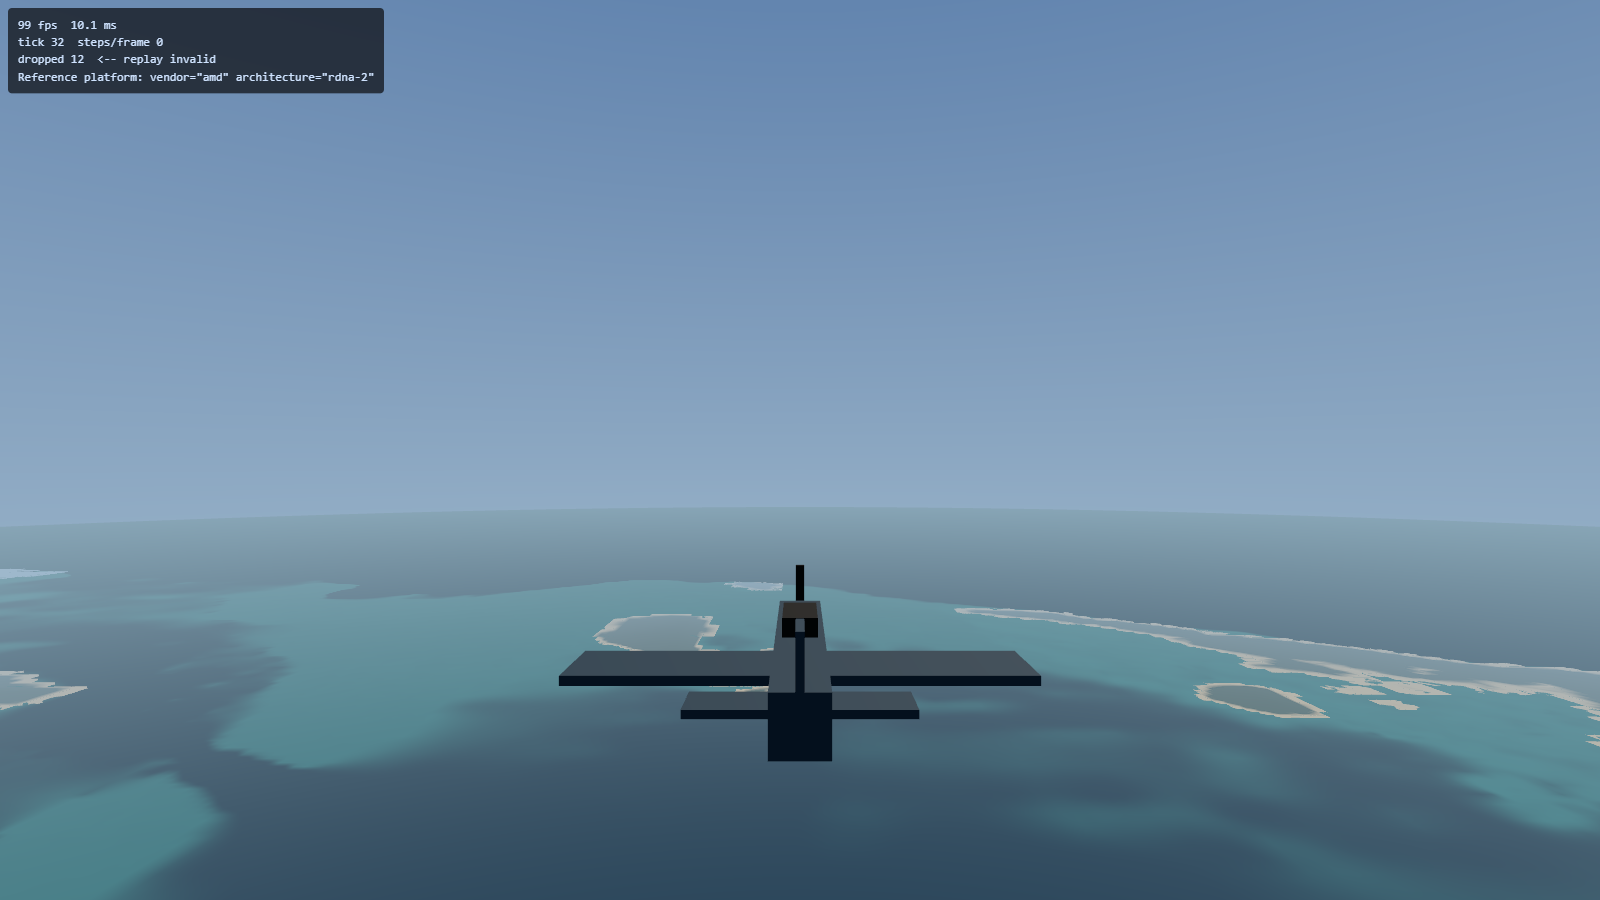
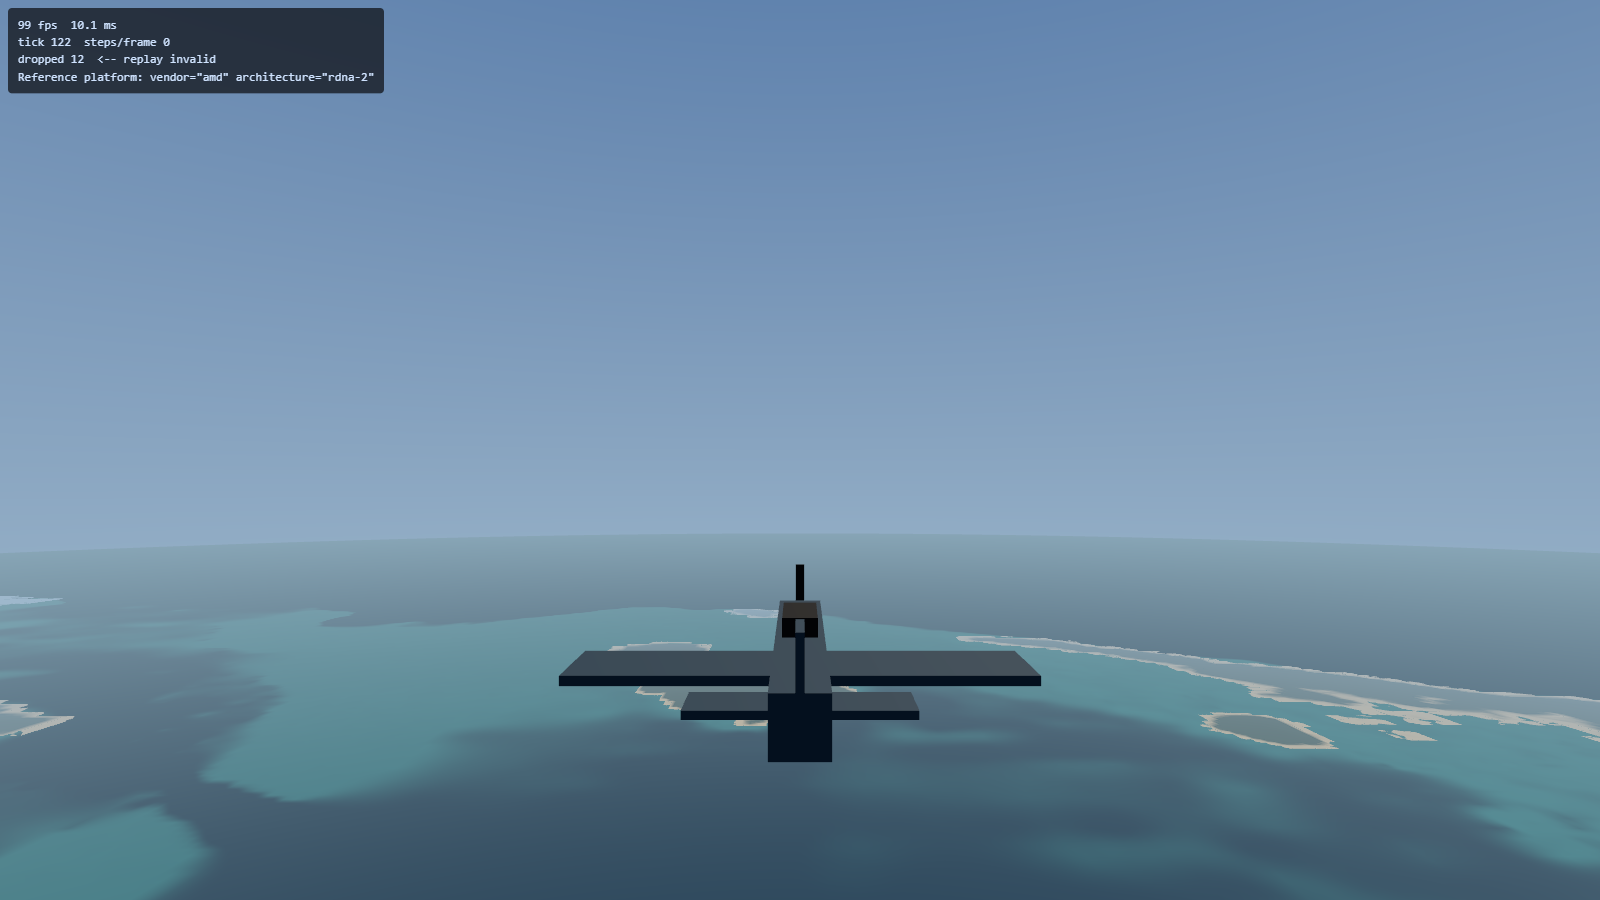
docs(ocean): record Plan 5 results, GPU evidence and visual handoff
Document actual bathymetry encoding, native WGSL path, wave bands, measured tiers, CPU/GPU tolerance and known visual limits. Refresh final wave captures and use the Tacloban coast because the plan location hides the sea at 600 m. Verification: 639 tests and all 20 reference GPU tests pass. Deployment docs remain on their separate branch; no live deployment.

diff --git a/docs/handoff/2026-09-15-plan5-ocean.md b/docs/handoff/2026-09-15-plan5-ocean.md
@@ -1,4 +1,118 @@
-# Plan 5 continuation — 2026-09-15
+# Plan 5 ocean handoff — 2026-09-15
+
+## Try it
+
+From this worktree, `npm run dev -- --port 5183`, then:
+
+- [Animated default sea](http://localhost:5183/?spawnY=600): Beaufort 4.
+- [Light breeze](http://localhost:5183/?spawnY=100&beaufort=2&oceanTime=17).
+- [Strong breeze](http://localhost:5183/?spawnY=100&beaufort=6&oceanTime=17).
+- [Leyte coast](http://localhost:5183/?spawnX=-30000&spawnY=600&spawnZ=47605&beaufort=6).
+
+Remove `oceanTime` to animate. Add `oceanTier=high`, `medium`, or `low` to
+hold quality. Overrides and the read-only diagnostic hook are DEV-only.
+The normal default starts high and can downgrade once after warm-up.
+
+## What arrived
+
+GEBCO bathymetry; a curved 400 km ocean; deterministic native WGSL inverse
+FFTs; three energy-partitioned wave bands; displacement, normals and
+Jacobian foam; shallow-water attenuation; depth colour and Fresnel sky
+reflection; and measured quality tiers. This continuation made no edits under `src/sim/`.
+The sea does not yet apply forces to aircraft or alter water collisions.
+
+Periods are 509/127/31 m, split into non-overlapping bands at wavelengths
+32 m and 4 m. The seeded CPU reference and GPU use the same directional
+spectrum, phase conventions and band limits. Shared curvature and reversed
+floating-point depth fix the flat-water coastline occlusion and long-range
+terrain/water interleaving seen in early captures.
+
+## Visual evidence
+
+![Beaufort 2, 100 m](ocean-waves-b2.png)
+![Beaufort 6, 100 m](ocean-waves-b6.png)
+![Beaufort 6, 11 km](ocean-waves-11000m.png)
+![Coast, Beaufort 2 at 600 m](ocean-coast-b2-600m.png)
+![Coast, Beaufort 6 at 600 m](ocean-coast-b6-600m.png)
+![Coast at 3000 m](ocean-coast-3000m.png)
+
+The coastal captures use (-30000, 47605), near Tacloban. The plan's
+(-73000, 23828) viewpoint is inland and hides the sea at 600 m.
+
+The first two show fine ripples versus larger waves at identical frozen
+phase. The red/orange objects are the existing reference markers.
+
+## GPU measurements
+
+Reference AMD RDNA-2 / RX 6700 XT, Chromium D3D12 in the Windows desktop
+session, 2560 × 1440 drawing surface, Beaufort 6 at 600 m, phase 17.
+After warm-up: at least 240 render samples and 120 samples per compute pass.
+
+| Tier | Cascades × grid | Combined p50 | Combined p95 |
+| --- | --- | --- | --- |
+| High | 3 × 256² | 3.277 ms | 3.539 ms |
+| Medium | 2 × 128² | 2.425 ms | 2.621 ms |
+| Low | 1 × 128² | 2.228 ms | 2.490 ms |
+
+These sum each pass's percentile; they are not paired frame latencies.
+Compute is separately timestamped because Three's render timer excludes
+native compute. Timestamp quantisation is about 0.066 ms. Repeat windows
+show some p95 variation (medium 2.884 ms; low 2.622 ms). All tiers are
+checked against an 8.33 ms combined GPU budget. Browser frame cadence is
+separate and remains near 10 ms on this setup.
+
+An initial high-tier measurement exceeded 10 ms. Skipping texture reads for
+wave bands below geometry or pixel resolution brought it inside budget.
+A one-time high-tier cost of <=8 ms retains high; <=11 ms selects medium
+(measured medium/high cost ratio about 0.741); larger selects low. Without
+timestamp support, selection uses conservative 18/34 ms frame-interval
+thresholds. This fallback has not been measured on a second adapter.
+
+## Numerical verification
+
+Final `npm run verify`: **639 passed, 5 skipped**. Full reference-GPU suite:
+**20 passed**. Golden trajectory unchanged; no regeneration. The existing
+Leyte render budget also passed at p50/p95 **2.228/2.294 ms**.
+
+The GPU suite copies actual displacement textures back, checking height and
+both horizontal components at N=64/128/256, times 0/1.5/17. Maximum observed
+RMS error was 4.43e-7 m against the independent float64 CPU reference; the
+1e-5 m bound allows float32 driver variation while catching layout, sign
+and scaling mistakes. Live-scene tests check every active tier cascade,
+its exact seed, options and frozen phase. Gulf/coast camera sweeps cover
+100/600/3000/8000 m alongside the original terrain/adapter tests.
+
+## Mark's visual decisions
+
+- Does the colour/reflection read as Leyte Gulf, rather than a generic sea?
+- Is Beaufort 4 the right default?
+- Are the coastline and distance fade convincing during flight? The Tacloban
+  capture exposes angular, sometimes rectangular low coastal banks from the
+  current terrain grid; these are still visible and are not detailed beaches.
+- Foam is a folding indicator with a two-second decay, not simulated surf.
+  Breaking crests, shoreline wash and full sky/environment reflection remain
+  visual limitations. Whitecaps may be sparse at the normal wind settings.
+
+## Branches and deployment
+
+Deployment documentation is committed on `docs-deploy` as `f4a64d5`.
+The live release remains `9cec9d3`; this ocean work is local to
+`worktree-plan5-ocean`. No push, merge or production deployment was performed.
+Preserve the existing deployment worktrees when reconciling branches.
+The ocean branch also inherits earlier roadmap-comment edits in
+`src/sim/loop.ts` from `05849ef`; those are not simulation changes from this
+implementation.
+
+The reference Playwright server was started over SSH with temporary Windows
+scheduled task `Codex-Ww2Ocean-20260915`, using an interactive console-session
+principal. Direct SSH browser launch does not expose the GPU. It listens
+only on 127.0.0.1:3000, forwarded to nexus port 39001; the ocean Vite server
+uses reverse port 5183. The task has a two-hour execution limit.
+
+## Implementation history and corrections
+
+Final surface commit: `c8b87c0`. Measured tiers and live GPU verification:
+`b6a3929`.
 
 ## Completed
 
@@ -20,9 +134,9 @@
   Actually transposing the output fails the direct 2-D fixture.
 - `reference.ts` documents seed `0x4f434541`, draw order, spectrum layout,
   frequency-to-wavevector density conversion, and Hermitian pairing.
-- The reference is a complete isotropic patch. Cascade energy partitioning
-  and wind direction still need to be integrated consistently on both paths.
-  Summing three full spectra would triple energy; do not do that silently.
+- The reference supports isotropic fixtures and banded directional spectra.
+  Live cascades partition energy consistently on the CPU and GPU; summing
+  three complete spectra would triple energy.
 - DC and Nyquist lines are zero. GPU initialization must match this cutoff.
 
 ## Verification evidence
@@ -37,9 +151,9 @@ broken Hermitian pairing, and doubled spectral energy. Equivalent column-first
 pass order passes as expected. Full-suite result is recorded in the commit.
 The golden trajectory was not regenerated.
 
-## Resume
+## Earlier continuation checkpoint
 
-Continue with Task 4 (GEBCO fetch and attribution), then Task 5 (depth field).
+The continuation below completed Tasks 4–7, followed by the FFT and surface.
 Read `docs/superpowers/plans/2026-09-15-ocean.md` and its implementation
 corrections before using the illustrative code snippets.
 
@@ -64,7 +178,7 @@ merging the ocean branch; preserve other worktrees.
   tests passed. At 1440p over Leyte, GPU p50 1.901 ms, p95 2.228 ms over 516
   samples. Curvature, colour, extent and reversed-depth mutations fail.
 - Captures: `leyte-ocean-3000m.png`, `gulf-ocean-600m.png`, and
-  `gulf-ocean-11000m.png`. The sea is still flat; waves start in Task 8.
+  `gulf-ocean-11000m.png`. These are the flat milestone captures; wave captures are above.
 
 The isolated dev server uses port 5183. `PW_BASE_URL` supports this without
 repointing the existing main-checkout server. The Windows Playwright server

diff --git a/README.md b/README.md
@@ -10,7 +10,7 @@ mission text. `ww2airsim` is a working title.
 
 ## Status
 
-**Plans 1–4 complete (2026-09-14).** A deterministic F6F Hellcat flight
+**Plans 1–5 implemented (2026-09-15; ocean branch).** A deterministic F6F Hellcat flight
 model runs headlessly in Node under `src/sim/`, graded against cited
 historical trial figures by the test-card harness in `tools/testcards/`, with
 a golden-trajectory regression, a randomised soak, and CI (Plan 1). It is
@@ -20,11 +20,12 @@ limiter, auto-rudder and altitude hold — sit between the keyboard and the
 simulation, each switchable in flight (Plan 3). And the water it flies over is
 no longer empty: real Leyte Gulf is under it (Plan 4, below).
 
-The ocean, weapons, damage, AI, carrier operations and the meta-game do not
-exist yet. **Plans 1–4 of 9**, settled 2026-09-15: 5 ocean, 6 combat and
-damage, 7 AI, 8 carrier and airfield operations, 9 meta-game. Plan 5 is
-designed ([`2026-09-15-ocean-design.md`](docs/superpowers/specs/2026-09-15-ocean-design.md))
-and not yet built.
+The sea now has deterministic, Beaufort-driven FFT waves, depth colour,
+shallow-water attenuation and foam (Plan 5). Weapons, damage, AI, carrier
+operations and the meta-game remain ahead: 6 combat and damage, 7 AI,
+8 carrier and airfield operations, 9 meta-game. See the
+[ocean handoff](docs/handoff/2026-09-15-plan5-ocean.md) for GPU measurements,
+visual comparisons and the remaining art-direction questions.
 
 That count was genuinely unsettled until then, and this paragraph said so:
 input assists were inserted into the slot the roadmap had given terrain, and
@@ -39,6 +40,19 @@ The full design lives in
 [`docs/superpowers/specs/2026-09-12-ww2airsim-design.md`](docs/superpowers/specs/2026-09-12-ww2airsim-design.md)
 and remains the authoritative description of the project as a whole — read it
 for intent, and the code for what is actually built.
+
+## Ocean: trying Plan 5
+
+Run `npm run dev -- --port 5183` in the ocean worktree. Compare
+`http://localhost:5183/?spawnY=100&beaufort=2&oceanTime=17` with force `6`.
+Remove `oceanTime` to animate. `oceanTier=high`, `medium` or `low` holds a
+quality tier for development comparisons. These URL overrides are absent
+from production builds. Default weather is Beaufort 4.
+
+Three disjoint wave bands use 509/127/31 m periods. High quality runs three
+256² FFTs, medium two 128² FFTs, low one 128² FFT. A one-time warm-up check
+can reduce quality if measured cost exceeds its threshold. Water remains a
+rendering effect: wave forces and water collision are future work.
 
 ## Terrain: what Plan 4 built, and what it did not
 
@@ -55,9 +69,9 @@ plan rather than to a to-do list:
 
 - **No surface materials.** The terrain is coloured by height and slope. The
   ESA WorldCover splat guide is 400 MB and a subject of its own.
-- **No bathymetry.** The sea is still a flat plane at y = 0, unchanged by this
-  plan. Bathymetry is what makes water read as *this place*, and it arrives
-  with the ocean.
+- **Bathymetry arrived in Plan 5.** A 513 × 513 GEBCO grid drives ocean colour
+  and shallow-water attenuation. It stores signed metre depths in 526,338
+  bytes; the terrain pyramid and collision surface retain their own encoding.
 - **No ground handling.** Contact produces a crash event, not a landing. No
   runways, no gear, no deck operations.
 - **No trees, buildings or roads.** The surface is bare relief.
@@ -65,11 +79,10 @@ plan rather than to a to-do list:
 **Three things you will see that have already been ruled on**, recorded here
 so they are not re-reported as bugs:
 
-- **The true beach is hidden.** The terrain sinks by `d²/2R` while the water
-  plane stays flat, so the flat sea occludes land lower than the sink at its
-  own distance — 80 m at 32 km. The near coast reads as "water meets rising
-  ground" rather than as a beach. Accepted 2026-09-14: the fix is the real
-  ocean, which has to solve the same problem anyway.
+- ~~**The true beach is hidden by flat water.**~~ Fixed 2026-09-15: terrain
+  and ocean use the same curvature sink, with reversed floating-point depth
+  preventing long-range interleaving. Coastline detail is still limited by
+  the source grids; judge the visual result in the Plan 5 captures.
 - **Red/orange specks on the sea are not terrain's.** The pre-terrain checkout
   `544bd7e`, served as a control on 2026-09-14, shows the identical specks in
   the same places while drawing no terrain at all.
@@ -110,6 +123,7 @@ itself if the cache is empty:
 
 ```sh
 npm run terrain:build    # tools/terrain/build.ts; prints bytes written and elapsed time
+npm run bathy:build      # GEBCO subset → 513² int16 metre grid, 526338 bytes
 ```
 
 Measured on nexus, 2026-09-14:

diff --git a/docs/superpowers/specs/2026-09-12-renderer-and-flight-controls-design.md b/docs/superpowers/specs/2026-09-12-renderer-and-flight-controls-design.md
@@ -85,7 +85,7 @@ probe. Re-run 2026-09-13 on a Surface: it threw the identical error, so this
 diagnosis is not supported -- see the second-platform section above. Since raw
 WGSL compute demonstrably works on this GPU,
 **no part of this plan is blocked either way** — TSL versus `wgslFn` is a
-question for Plan 4's ocean, not for anything here.
+question subsequently settled by Plan 5's ocean, not for anything here.
 
 ### Second platform, 2026-09-13 — Surface (Snapdragon, Adreno 7xx, Chrome 152)
 
@@ -419,13 +419,11 @@ context object — a worker boundary becomes a message-passing change rather tha
 a rewrite. Plan 5 is the plan that should revisit it.
 
 ## 10. Open items
-1. **TSL versus raw WGSL** — unsettled, and deliberately not blocking. Updated
-   2026-09-13: the fixed probe HAS now been run, on the Surface, and throws the
-   identical `TypeError` the fix was supposed to remove (see the second-platform
-   section above). It has still never been run on the reference GPU. Raw WGSL
-   compute now works on two GPUs from different vendors, so the contingency is
-   better proven than the TSL path is broken; this only matters to Plan 4's
-   ocean.
+1. **TSL versus raw WGSL — closed 2026-09-15.** Plan 5 uses native WGSL
+   compute pipelines on Three's WebGPU device and shared storage textures.
+   The FFT module needs bindings and workgroup storage, which `wgslFn` does
+   not represent. Actual GPU textures agree with the CPU oracle at N=64,
+   128 and 256; see the ocean compute follow-up below.
 2. **Keyboard ramp time constant** — a named value, expected to change once the
    aeroplane has been flown.
 3. **Eye point** — needs a plausible value for the F6F; no primary source is

diff --git a/docs/superpowers/specs/2026-09-15-ocean-design.md b/docs/superpowers/specs/2026-09-15-ocean-design.md
@@ -408,13 +408,19 @@ contradict itself, and this contradiction cost a decision nobody had taken.
 
 ## 11. Open items
 
-1. **Cascade patch sizes and N.** Starting values only; tuned against measured
-   frame time and visual beat, and recorded with their measurements.
-2. **Where the Beaufort default sits.** A constant in this plan; it becomes a
-   per-scenario weather parameter when master spec §9's scenarios exist.
-3. **Whether the outer rings need the FFT at all.** Beyond some distance the
-   displacement subtends less than a pixel and only the normal matters.
-   Measured, not guessed.
+1. **Cascade patch sizes and N — resolved 2026-09-15.** Pairwise-coprime
+   509/127/31 m periods, with disjoint bands split at 32 m and 4 m
+   wavelengths. High: 3 × 256², medium: 2 × 128², low: 1 × 128².
+   Reference 1440p combined GPU p50/p95: 3.277/3.539, 2.425/2.621,
+   2.228/2.490 ms respectively. See the handoff for sampling limitations.
+2. **Beaufort default — remains an art-direction question.** Implemented
+   force 4; force 2 and 6 captures differ visibly. Mark should judge the
+   default before scenarios supply their own weather.
+3. **Outer-ring FFT — resolved by filtering and measurement.** The shader
+   skips displacement reads below mesh resolution and normal/foam reads below
+   pixel resolution, with smooth fades. This lowered the measured high-tier
+   total p95 from 10.55 ms to 3.54 ms at 1440p/600 m. Compute still produces
+   the periodic textures once per frame for the visible near field.
 
 ## 12. Risks
 

diff --git a/docs/superpowers/plans/2026-09-15-ocean.md b/docs/superpowers/plans/2026-09-15-ocean.md
@@ -1,6 +1,21 @@
 # Plan 5 — The ocean: implementation plan
 
 
+## Implementation result — 2026-09-15
+
+Tasks 1–12 are implemented in `worktree-plan5-ocean`. The original step
+checklists and snippets below remain the planning record; the code and
+[handoff](../../handoff/2026-09-15-plan5-ocean.md) describe the final result.
+Key corrections: metre bathymetry, corrected U10 spectrum normalization,
+DIT bit reversal, native WGSL pipelines rather than `wgslFn`, and disjoint
+cascade bands. Tasks 10–11 were finalized together so tier thresholds use
+measured native compute plus render cost.
+
+Final validation: `npm run verify` — 639 passed, 5 skipped; full reference
+GPU suite — 20 passed. No golden regeneration or simulation implementation
+changes. Deployment documentation remains separately committed at `f4a64d5`;
+no merge, push or deployment was performed for this ocean continuation.
+
 ## Measured bathymetry correction — 2026-09-15
 
 The fetched world subset spans **−7971 to +1189 m**; the built 513² grid spans
